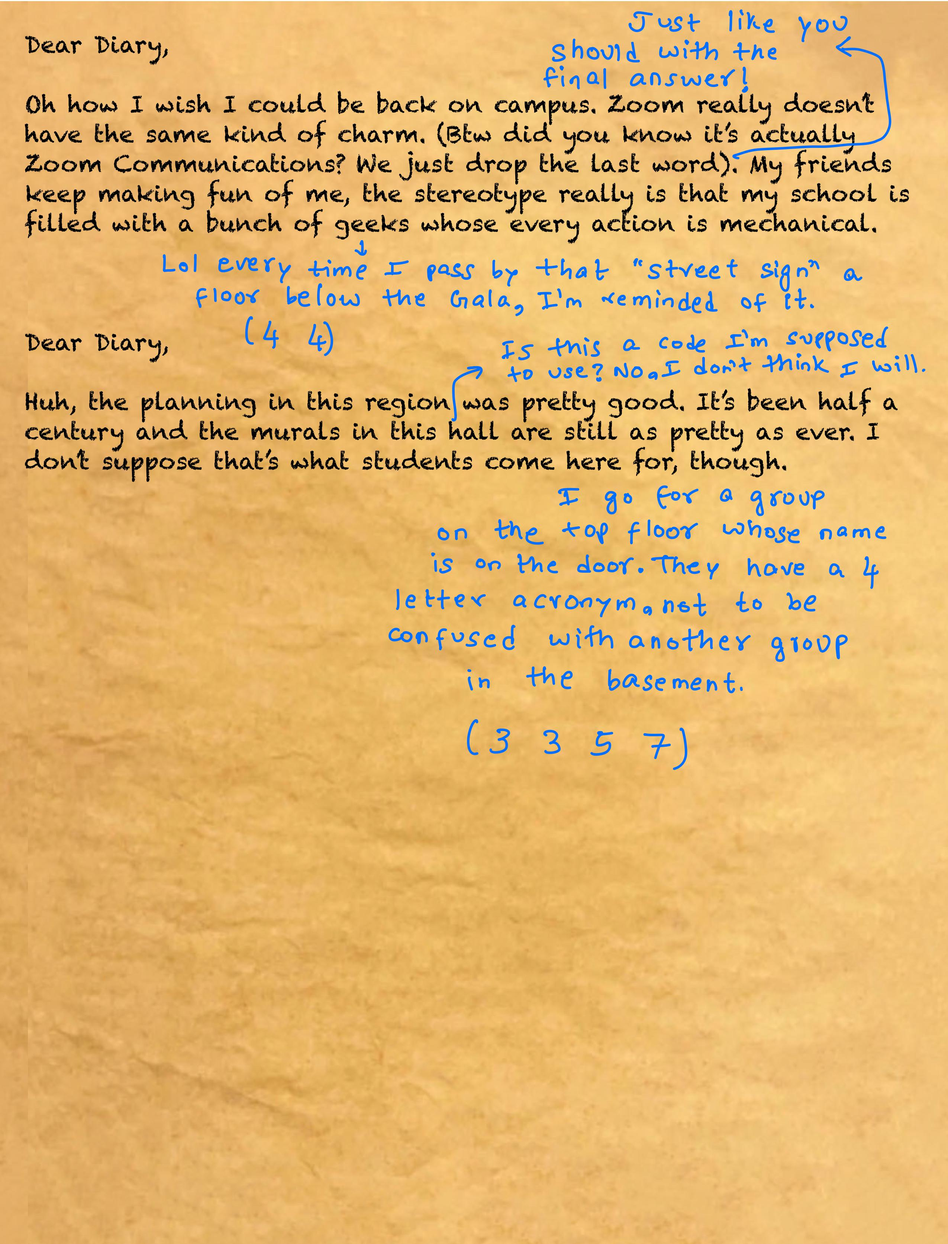
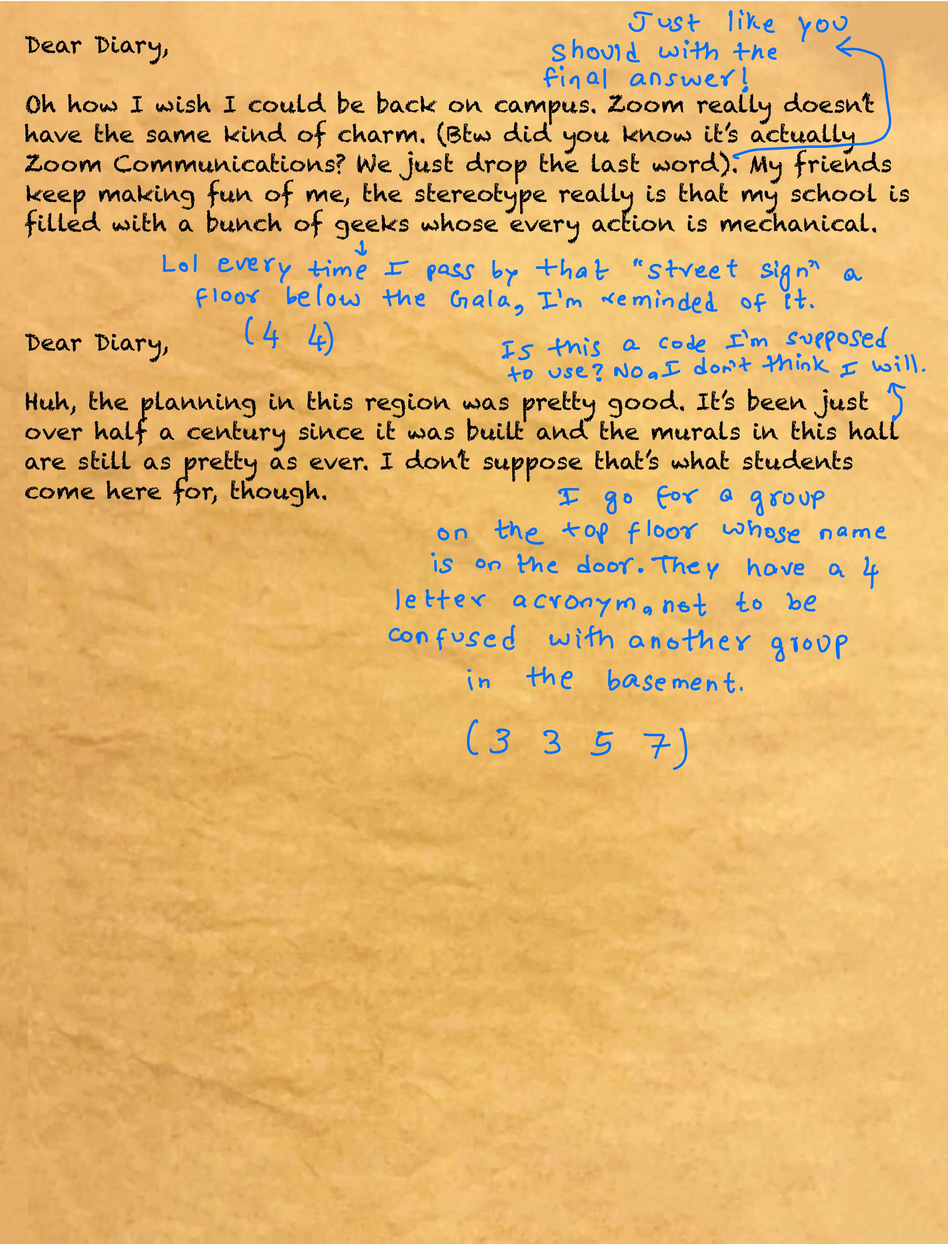
Update waterlogged-kiwi (Sounds Like a Dodo to Me)

Changed region(s): [[0.031, 0.3107, 0.9604, 0.4039], [0.4957, 0.2797, 0.5267, 0.3107]]

diff --git a/site/src/frontend/puzzles/waterlogged-kiwi/solution.tsx b/site/src/frontend/puzzles/waterlogged-kiwi/solution.tsx
@@ -7,10 +7,10 @@ const DATA: [string, string, string, string, string][] = [
   ["1865", "Hii! I just…", "COPLEYSQUAREPARK", "3 (Practical Chemistry)", "P"],
   ["1910", "It’s been…", "FARIBORZMASEEHHALL", "10 (Chem E)", "A"],
   ["1916", "Going to…", "GRADUATESTUDENTCOUNCIL", "11 (Sanitary E)", "U"],
-  ["1946", "Haha why…", "HAYDENLIBRARY", "7 (Bio & Public Health)", "L"],
+  ["1950", "Haha why…", "HAYDENLIBRARY", "7 (Bio & Public Health)", "L"],
   ["1955", "Somehow…", "CHARLESMVESTSTUDENTSTREET", "8 (Physics)", "M"],
   ["1957", "“Cool” is…", "HAROLDEEDGERTONSTROBEALLEY", "18 (Mathematics)", "R"],
-  ["1975", "Huh, the…", "THEMITRADIOSOCIETY", "11 (Regional Planning)", "O"],
+  ["1966", "Huh, the…", "THEMITRADIOSOCIETY", "11 (Regional Planning)", "O"],
   [
     "1999",
     "OMG I got…",
@@ -150,7 +150,7 @@ const Solution = (): JSX.Element => {
           <Highlight>
             (The hotel mentioned is Maseeh Hall, now a dorm, but at the time, a
             hotel named Riverbank Court. It was built in 1900, so the year of
-            the entry is 1902)
+            the entry is 1910)
           </Highlight>
         </div>
         <div>
@@ -278,7 +278,7 @@ const Solution = (): JSX.Element => {
           <Highlight>
             (Course 11 at the time—City and Regional Planning)
           </Highlight>
-          . It’s been half a century{" "}
+          . It’s been just over half a century since it was built{" "}
           <Highlight>
             (Walker Memorial, which is being referenced here, was first used in
             1916, so now it is 1966)

diff --git a/site/src/frontend/puzzles/waterlogged-kiwi/puzzle.tsx b/site/src/frontend/puzzles/waterlogged-kiwi/puzzle.tsx
@@ -15,12 +15,16 @@ const Blue = styled.div`
   font-style: italic;
 `;
 
+const StyledImage = styled(LinkedImage)`
+  display: block;
+`;
+
 const Puzzle = (): JSX.Element => {
   return (
     <>
-      <LinkedImage src={image1} alt="A page of diary entries" />
-      <LinkedImage src={image2} alt="A page of diary entries" />
-      <LinkedImage src={image3} alt="A page of diary entries" />
+      <StyledImage src={image1} alt="A page of diary entries" />
+      <StyledImage src={image2} alt="A page of diary entries" />
+      <StyledImage src={image3} alt="A page of diary entries" />
       <div className={COPY_ONLY_CLASS}>
         <DiaryEntry>
           <div>Dear Diary,</div>
@@ -172,8 +176,9 @@ const Puzzle = (): JSX.Element => {
         <DiaryEntry>
           <div>Dear Diary,</div>
           <div>
-            Huh, the planning in this region was pretty good. It’s been half a
-            century and the murals in this hall are still as pretty as ever.
+            Huh, the planning in this region was pretty good. It’s been just
+            over half a century since it was built and the murals in this hall
+            are still as pretty as ever.
           </div>
           <Blue>
             Is this a code I’m supposed to use? No, I don’t think I will.
